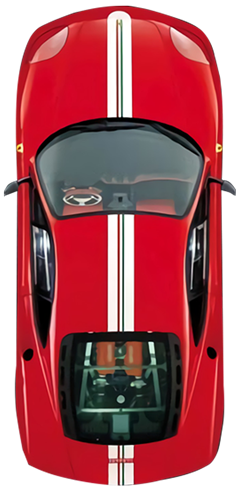
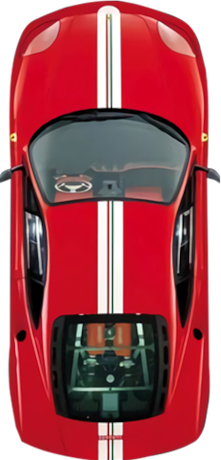
selecting a player

Changed region(s): [[0.0, 0.0, 1.0, 1.0], [0.8145, 0.9435, 0.8959, 0.9739]]

diff --git a/engine/player.cpp b/engine/player.cpp
@@ -6,7 +6,7 @@ Player::Player() {
     this->speed = nullptr;
     this->position = 0;
     this->rotation = 0;
-    if (!this->texture.loadFromFile("../assets/cars/ferrari2.png")) exit(1);
+    if (!this->texture.loadFromFile("../assets/cars/bolid.png")) exit(1);
     this->texture.setSmooth(true);
     this->texture.setRepeated(false);
     this->sprite.setTexture(texture);
@@ -31,29 +31,29 @@ void Player::rotationZero() {
 }
 
 void Player::update() {
-    if (sf::Keyboard::isKeyPressed(sf::Keyboard::Left)) {
+    if ((sf::Keyboard::isKeyPressed(sf::Keyboard::Left)) && position > -280) {
         if (rotation > 0.0) {
             rotationZero();
         }
         rotation -= .15;
     }
-    if (sf::Keyboard::isKeyPressed(sf::Keyboard::Right)) {
+    if ((sf::Keyboard::isKeyPressed(sf::Keyboard::Right)) && position < 280) {
         if (rotation < 0.0) {
             rotationZero();
         }
         rotation += .15;
     }
 
-    if (rotation > 0 && position < 295) {
-        position += 2 * rotation * (float(*speed) / 100);
-    } else if (rotation < 0 && position > -260) {
-        position += 2 * rotation * (float(*speed) / 100);
+    if (rotation > 0 && position < 280) {
+        position += (2 * rotation * (float(*speed) / 100)) * settings->getPlayerData().getRotationFactor();
+    } else if (rotation < 0 && position > -280) {
+        position += (2 * rotation * (float(*speed) / 100)) * settings->getPlayerData().getRotationFactor();
     }
     if (!sf::Keyboard::isKeyPressed(sf::Keyboard::Right) && !sf::Keyboard::isKeyPressed(sf::Keyboard::Left)) {
         rotationZero();
     }
-    float newPosition = int(window->getSize().x / 2) - 40 + position;
-    sprite.setPosition(newPosition, 720);
+    float newPosition = int(window->getSize().x - settings->getPlayerData().getCoordinateX()) / 2 + position;
+    sprite.setPosition(newPosition, settings->getPlayerData().getCoordinateY());
     sprite.setRotation(rotation);
 }
 
@@ -61,12 +61,20 @@ void Player::init(Settings *newSettings, int *speedPointer) {
     settings = newSettings;
     window = settings->getWindowPointer();
     speed = speedPointer;
+    sprite.setPosition((window->getSize().x - settings->getPlayerData().getCoordinateX()) / 2, settings->getPlayerData().getCoordinateY());
+    position = 0;
+    rotation = 0;
+    if (!(texture.loadFromFile(settings->getPlayerData().getTexture()))) exit(1);
+    sprite.setTexture(texture);
+    this->sprite.setScale(.3, .3);
+    sprite.setOrigin(sf::Vector2f((texture.getSize().x * .3) / 2, texture.getSize().y * .3));
+    }
 
     // tutaj nalezy przygotowac wszystkie rzeczy przed rozpoczeciem gry:
     // wysrodkowac pojazd, zresetowac skret, wczytac teksture itp
     // dane wybranego gracza mozna uzyskac przykładowo w poniższy sposób:
     // settings->getPlayerData().getTexture(); (zwraca std::string)
-}
+
 
 sf::Sprite *Player::getSpritePointer() {
     return &sprite;

diff --git a/engine/data/player.cpp b/engine/data/player.cpp
@@ -1,10 +1,13 @@
 #include "player.h"
 
-PlayerData::PlayerData(int initSpeed, int maxSpeed, int initFuel, int maxFuel, std::string texture) {
+PlayerData::PlayerData(int initSpeed, int maxSpeed, int initFuel, int maxFuel, int coordinateY , int coordinateX, float rotationFactor, std::string texture) {
     this->initSpeed = initSpeed;
     this->maxSpeed = maxSpeed;
     this->initFuel = initFuel;
     this->maxFuel = maxFuel;
+    this->coordinateY = coordinateY;
+    this->coordinateX = coordinateX;
+    this->rotationFactor = rotationFactor;
     this->texture = texture;
 }
 
@@ -28,13 +31,25 @@ std::string PlayerData::getTexture() {
     return texture;
 }
 
+int PlayerData::getCoordinateY(){
+    return coordinateY;
+}
+
+int PlayerData::getCoordinateX() {
+    return coordinateX;
+}
+
+float PlayerData::getRotationFactor() {
+    return rotationFactor;
+}
+
 PlayersData::PlayersData() {
-    players[0] = PlayerData(20, 80, 60, 60, "jakis.png");
-    players[1] = PlayerData(20, 100, 60, 60, "jakis.png");
-    players[2] = PlayerData(20, 60, 60, 60, "carrera.png");
-    players[3] = PlayerData(20, 80, 30, 60, "carrera.png");
-    players[4] = PlayerData(10, 50, 120, 120, "ferrari.png");
-    players[5] = PlayerData(40, 120, 50, 50, "ferrari.png");
-    players[6] = PlayerData(30, 90, 50, 50, "lambo.png");
-    players[7] = PlayerData(30, 90, 50, 70, "lambo.png");
+    players[0] = PlayerData(40, 80, 60, 60, 800, 40, 0.8, "../assets/cars/jakis.png");
+    players[1] = PlayerData(40, 100, 60, 60, 800, 40, 0.8, "../assets/cars/jakis.png");
+    players[2] = PlayerData(40, 60, 60, 60, 700, 40, 1.1, "../assets/cars/carrera.png");
+    players[3] = PlayerData(60, 300, 30, 60, 700, 40, 2 , "../assets/cars/bolid.png");
+    players[4] = PlayerData(10, 50, 120, 120, 720, 40, 1.5, "../assets/cars/ferrari.png");
+    players[5] = PlayerData(100, 500, 50, 50, 800, 40, 2, "../assets/cars/nevada_ze_stara.png");
+    players[6] = PlayerData(60, 90, 50, 50, 700, 40, 0.5, "../assets/cars/lambo.png");
+    players[7] = PlayerData(60, 90, 50, 70, 700, 40, 0.5, "../assets/cars/lambo.png");
 }

diff --git a/engine/data/player.h b/engine/data/player.h
@@ -8,16 +8,22 @@ private:
     int maxSpeed;
     int initFuel;
     int maxFuel;
+    int coordinateY;
+    int coordinateX;
+    float rotationFactor;
     std::string texture;
 
 public:
     PlayerData() = default;
-    PlayerData(int, int, int, int, std::string);
+    PlayerData(int, int, int, int, int, int, float, std::string);
     int getInitSpeed();
     int getMaxSpeed();
     int getInitFuel();
     int getMaxFuel();
+    int getCoordinateY();
     std::string getTexture();
+    int getCoordinateX();
+    float getRotationFactor();
 };
 
 class PlayersData {

diff --git a/engine/settings.cpp b/engine/settings.cpp
@@ -4,7 +4,7 @@ Settings::Settings() {
     this->windowPointer = nullptr;
     this->scene = 0;
     this->focus = true;
-    this->playerId = 0;
+    this->playerId = 5;
     this->init = true;
 }
 
